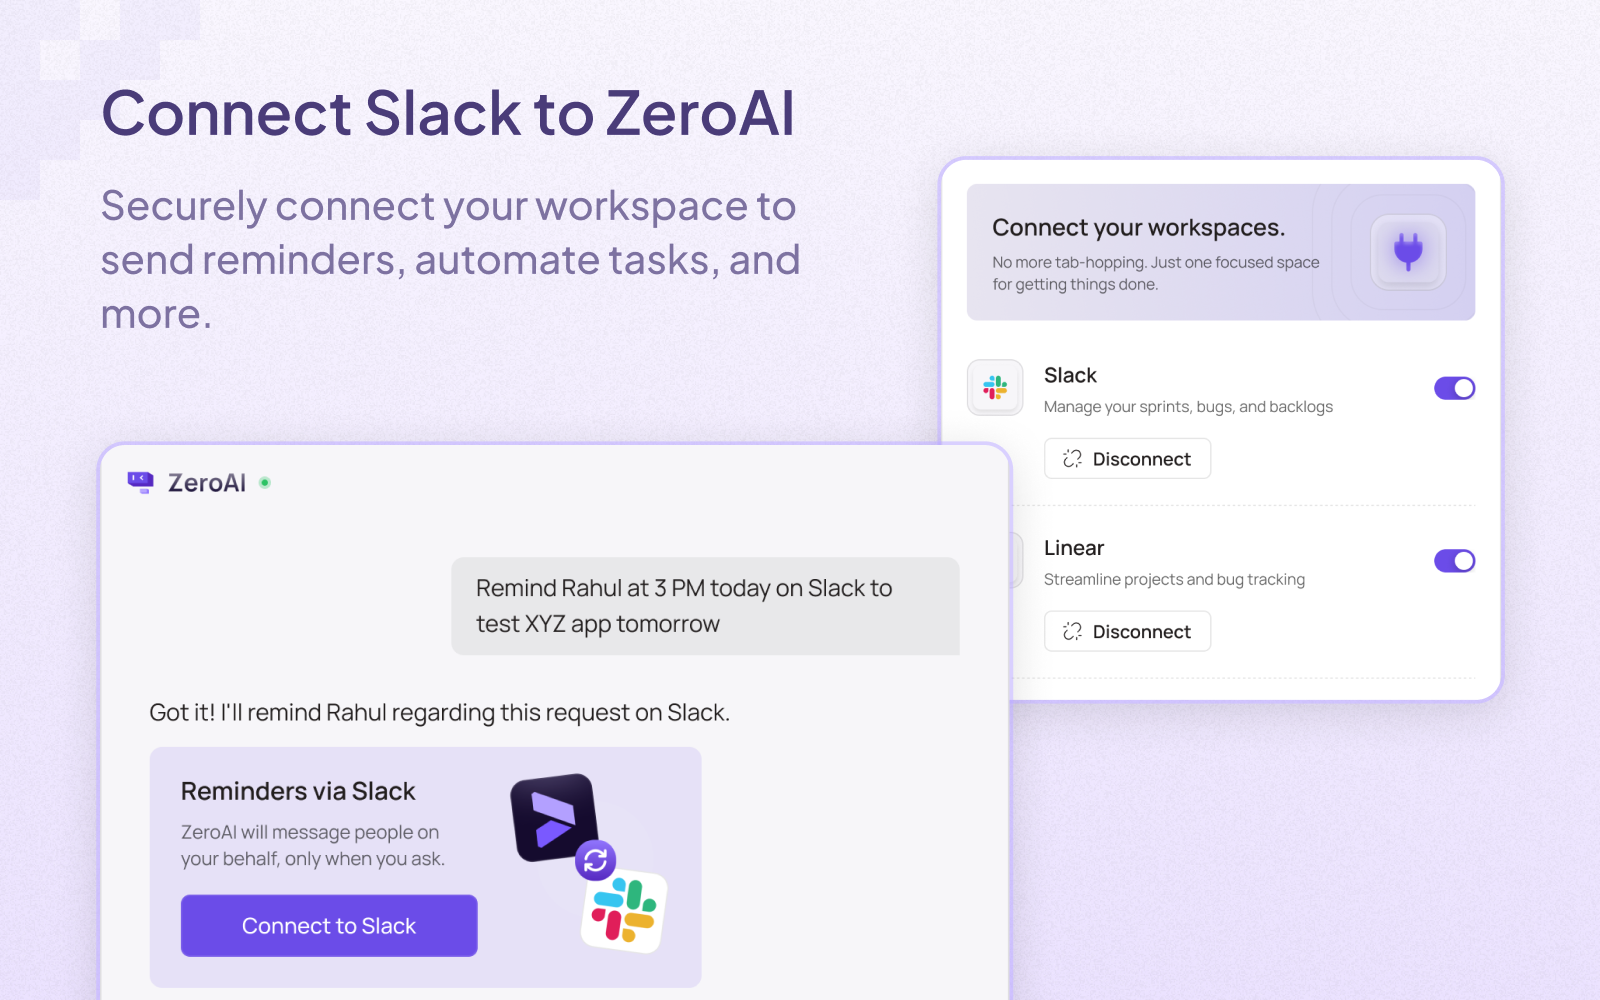
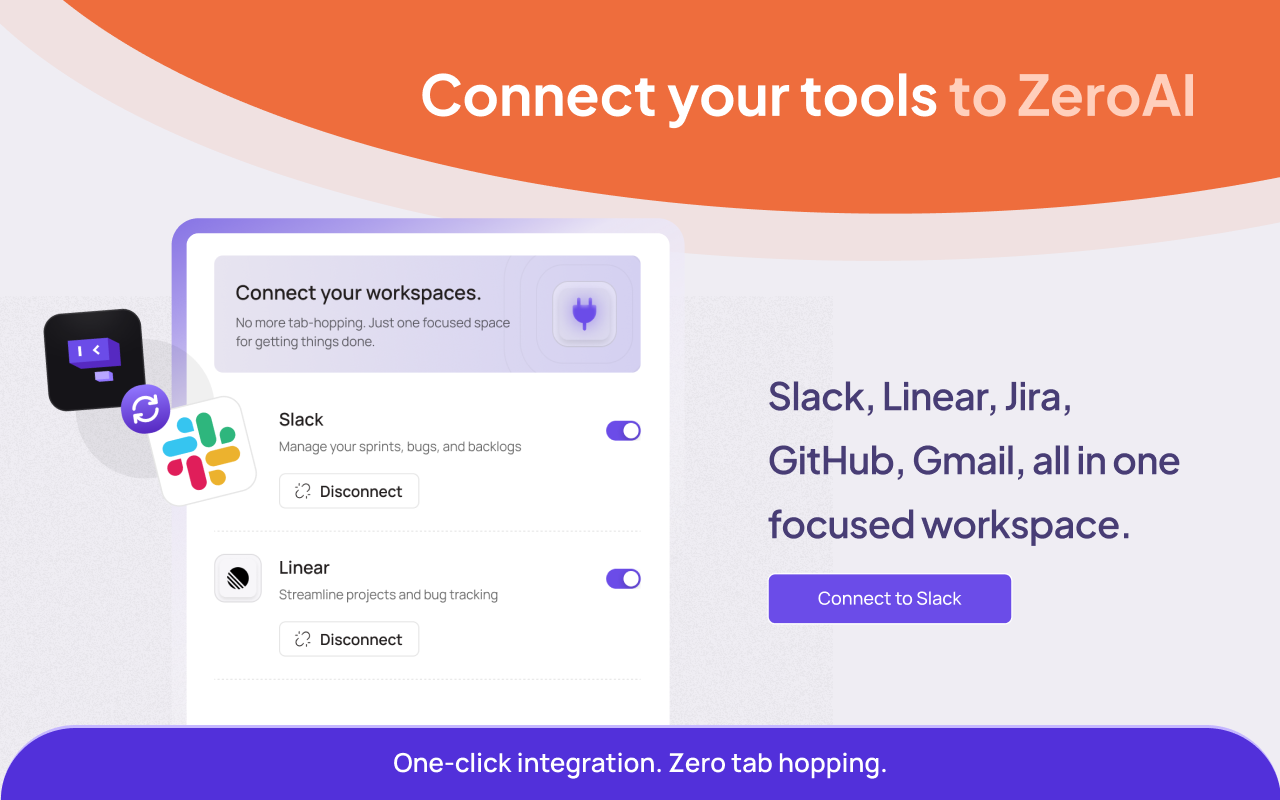
feat(blog): publish Introducing Zero and polish landing chrome
Add the Introducing Zero post, drop the sample drafts, point blog CTAs
at /get-started with a fixed sidebar button, and expand the landing
footer with About, Slack, Privacy Policy, Support and Terms.

diff --git a/src/components/landing/LandingShell.jsx b/src/components/landing/LandingShell.jsx
@@ -9,11 +9,11 @@ export function LogoMark({ className = 'h-4 w-auto' }) {
   return <img alt={siteCopy.common.brandAlt} src={landingAsset('logo-wordmark.svg')} className={className} />;
 }
 
-export function StartCta({ children, className = '', to = '/onboard' }) {
+export function StartCta({ children, className = '', to = '/get-started' }) {
   return (
     <Link
       to={to}
-      className={`relative inline-flex h-14 rounded-xl bg-white/10 p-[3px] font-instrumentSans text-base font-semibold text-purple-800 transition-opacity hover:opacity-90 ${className}`}
+      className={`relative inline-flex h-14 items-stretch rounded-xl bg-white/10 p-[3px] font-instrumentSans text-base font-semibold text-purple-800 transition-opacity hover:opacity-90 ${className}`}
       onMouseEnter={() => {
         // ponytail: warm the target route on intent; ceiling = one prefetch per href
         if (document.querySelector(`link[data-prefetch-cta="${to}"]`)) return;
@@ -25,7 +25,7 @@ export function StartCta({ children, className = '', to = '/onboard' }) {
       }}
     >
       {/* purple fill on white/10 plate — plate is the ring, not a CSS border */}
-      <span className="relative inline-flex size-full min-h-0 items-center justify-center overflow-hidden rounded-[9px] bg-purple-75 px-[27px]">
+      <span className="relative flex min-h-0 min-w-0 flex-1 items-center justify-center overflow-hidden rounded-[9px] bg-purple-75 px-[27px]">
         {/* Ellipse 212 — 208×32 frame; blur overflows to 308×132 */}
         <span className="pointer-events-none absolute left-1/2 top-[40px] h-8 w-[208px] -translate-x-1/2" aria-hidden>
           <span className="absolute inset-[-156.25%_-24.04%]">
@@ -47,7 +47,7 @@ export function LandingHeader() {
       </Link>
       <nav className="flex items-center gap-6">
         <Link
-          to="/onboard"
+          to="/get-started"
           className="inline-flex h-10 shrink-0 items-center rounded-[20px] border border-foreground-primary px-3 font-instrumentSans text-xs font-medium leading-[1.2] tracking-[0.4px] text-foreground-primary transition-colors hover:bg-white/5 sm:px-5 sm:text-sm"
         >
           {siteCopy.common.getItNow}
@@ -73,11 +73,14 @@ export function LandingFooter() {
             {siteCopy.common.copyright(year)}
           </p>
         </div>
-        <nav className="flex gap-8 font-instrumentSans text-sm font-normal leading-[1.2] text-foreground-primary">
+        <nav className="flex flex-wrap gap-x-8 gap-y-3 font-instrumentSans text-sm font-normal leading-[1.2] text-foreground-primary">
           <Link to="/#features" className="hover:text-purple-200">{siteCopy.common.product}</Link>
           <Link to="/blog" className="hover:text-purple-200">{siteCopy.common.blog}</Link>
-          <Link to="/privacy" className="hover:text-purple-200">{siteCopy.common.security}</Link>
-          <Link to="/support" className="hover:text-purple-200">{siteCopy.common.docs}</Link>
+          <Link to="/about" className="hover:text-purple-200">{siteCopy.common.about}</Link>
+          <Link to="/slack" className="hover:text-purple-200">{siteCopy.common.slack}</Link>
+          <Link to="/support" className="hover:text-purple-200">{siteCopy.common.support}</Link>
+          <Link to="/privacy" className="hover:text-purple-200">{siteCopy.common.privacy}</Link>
+          <Link to="/terms" className="hover:text-purple-200">{siteCopy.common.terms}</Link>
         </nav>
       </div>
     </footer>

diff --git a/src/pages/BlogPost.jsx b/src/pages/BlogPost.jsx
@@ -107,7 +107,9 @@ export default function BlogPost() {
                   <p className="mb-4 font-instrumentSans text-sm leading-[1.45] text-foreground-muted">
                     {siteCopy.blog.post.sidebarCta}
                   </p>
-                  <StartCta className="h-11 px-5 text-sm">{siteCopy.blog.post.startFree}</StartCta>
+                  <StartCta to="/get-started" className="w-full">
+                    {siteCopy.blog.post.startFree}
+                  </StartCta>
                 </div>
               </div>
             </aside>

diff --git a/src/pages/BlogList.jsx b/src/pages/BlogList.jsx
@@ -139,7 +139,7 @@ export default function BlogList() {
           <h2 className="font-azeret text-[28px] font-normal leading-[1.2] tracking-[-0.5px] md:text-[36px]">
             {copy.listCta.title}
           </h2>
-          <StartCta>{siteCopy.common.getStarted}</StartCta>
+          <StartCta to="/get-started">{siteCopy.common.getStarted}</StartCta>
         </div>
       </section>
     </LandingShell>

diff --git a/src/data/siteCopy.js b/src/data/siteCopy.js
@@ -11,6 +11,11 @@ export const siteCopy = {
     installChrome: 'Install Chrome Extension',
     blog: 'Blog',
     product: 'Product',
+    about: 'About',
+    slack: 'Slack',
+    privacy: 'Privacy Policy',
+    terms: 'Terms',
+    support: 'Support',
     security: 'Security',
     docs: 'Docs',
     copyright: (year) => `© 2025–${year} ZeroAI. All rights reserved.`,

diff --git a/content/blog/introducing-zero.md b/content/blog/introducing-zero.md
@@ -1,0 +1,32 @@
+---
+title: Introducing Zero
+excerpt: "A few years back we built DevBytes to keep busy developers informed without drowning in noise. Here's what we learned, and what we built next."
+publishedAt: 2026-08-26
+author: ZeroAI Team
+authorRole: Built for developer chaos
+readTime: 4 min read
+featureImage: case-photo.webp
+hidden: false
+---
+
+A few years back, when we started building DevBytes, our mission was simple but ambitious: **keep busy developers informed without drowning in noise.**
+
+Developers were (and still are) overwhelmed. They juggle endless feeds, newsletters, Reddit threads, Twitter/X, blogs, and GitHub trend.
+As a result, they end up wasting hours hunting for signal in the noise.
+
+DevBytes solved that by curating the most relevant tech, AI, coding news, and distilling it into **64-word summaries**. No clutter. No ads. Just high-signal insights you can absorb in 5-7 minutes a day.
+
+What we learned along the way was eye-opening:
+
+- **Lesson #1:** All ambitious devs are productivity junkies.
+- **Lesson #2:** Current tools often fall short on their expectations.
+- **Lesson #3:** Devs are open to trying new tools.
+- **Lesson #4:** Devs haggle, they won't pay unless they are satisfied.
+
+That's exactly why we developed **Zero**, a Chrome Extension.
+
+Zero is the _invisible AI work assistant_ that turns unstructured chaos (tasks scattered across Slack, email, notes, Jira, etc.) into real productivity. It intelligently **pulls, prioritizes, schedules, and manages** work.
+
+I'm thrilled to introduce Zero not just as a new product, but as a true assistant that can make developers significantly more effective.
+
+If you're a developer tired of context-switching and productivity theater, I'd love for you to **try Zero** and share your honest feedback.
